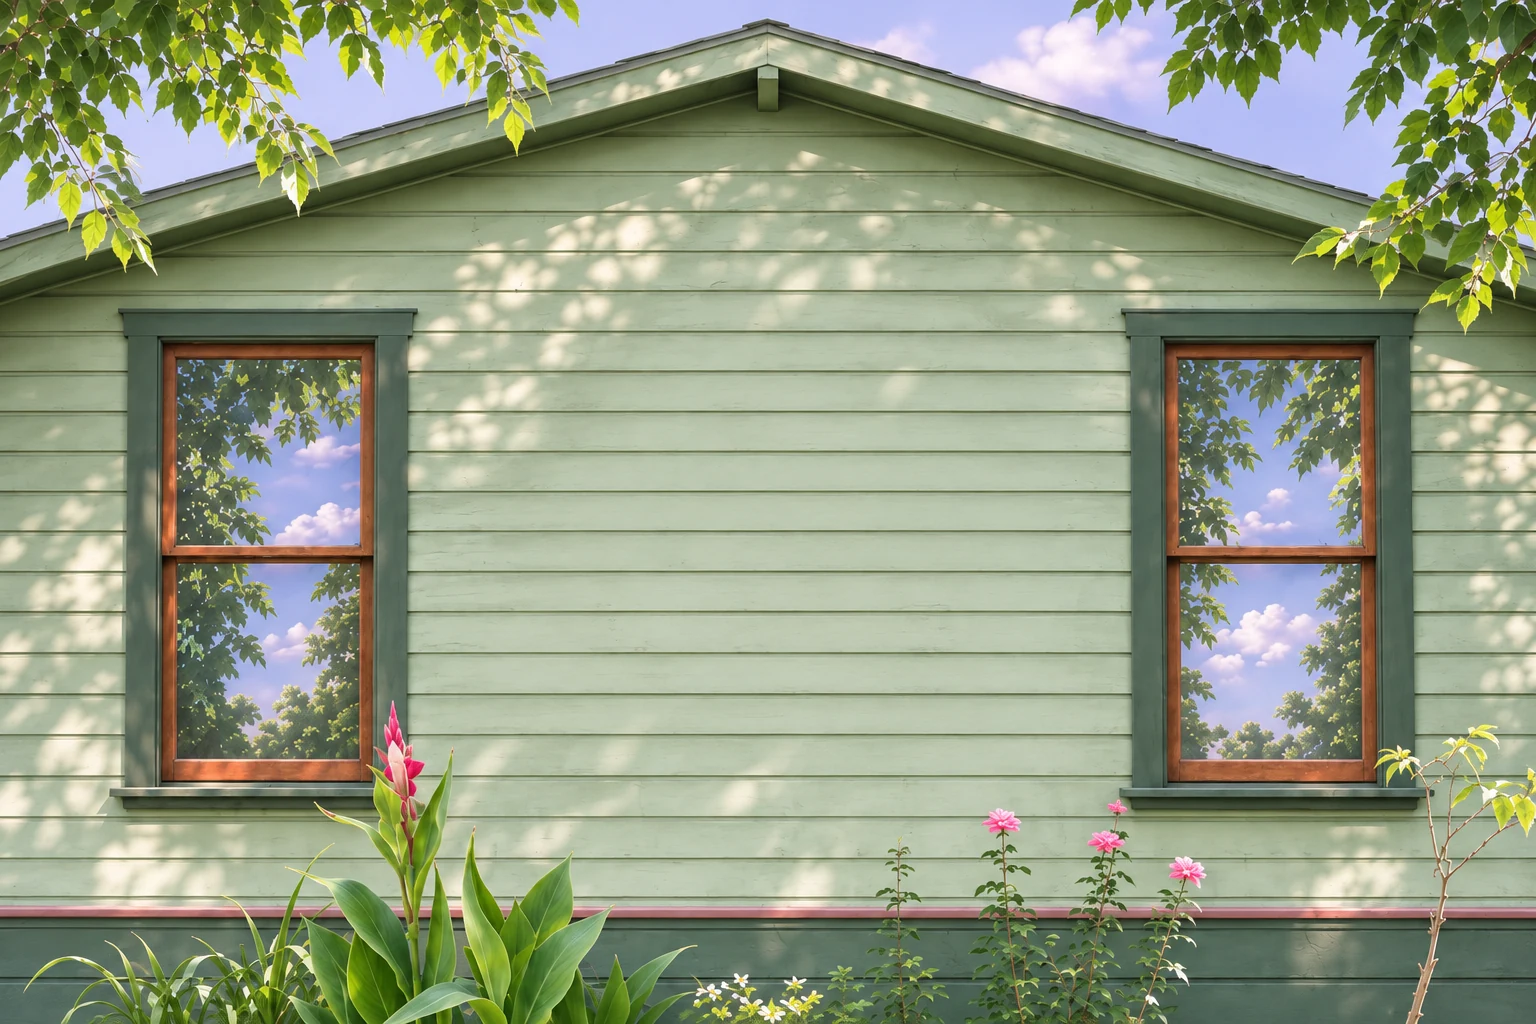
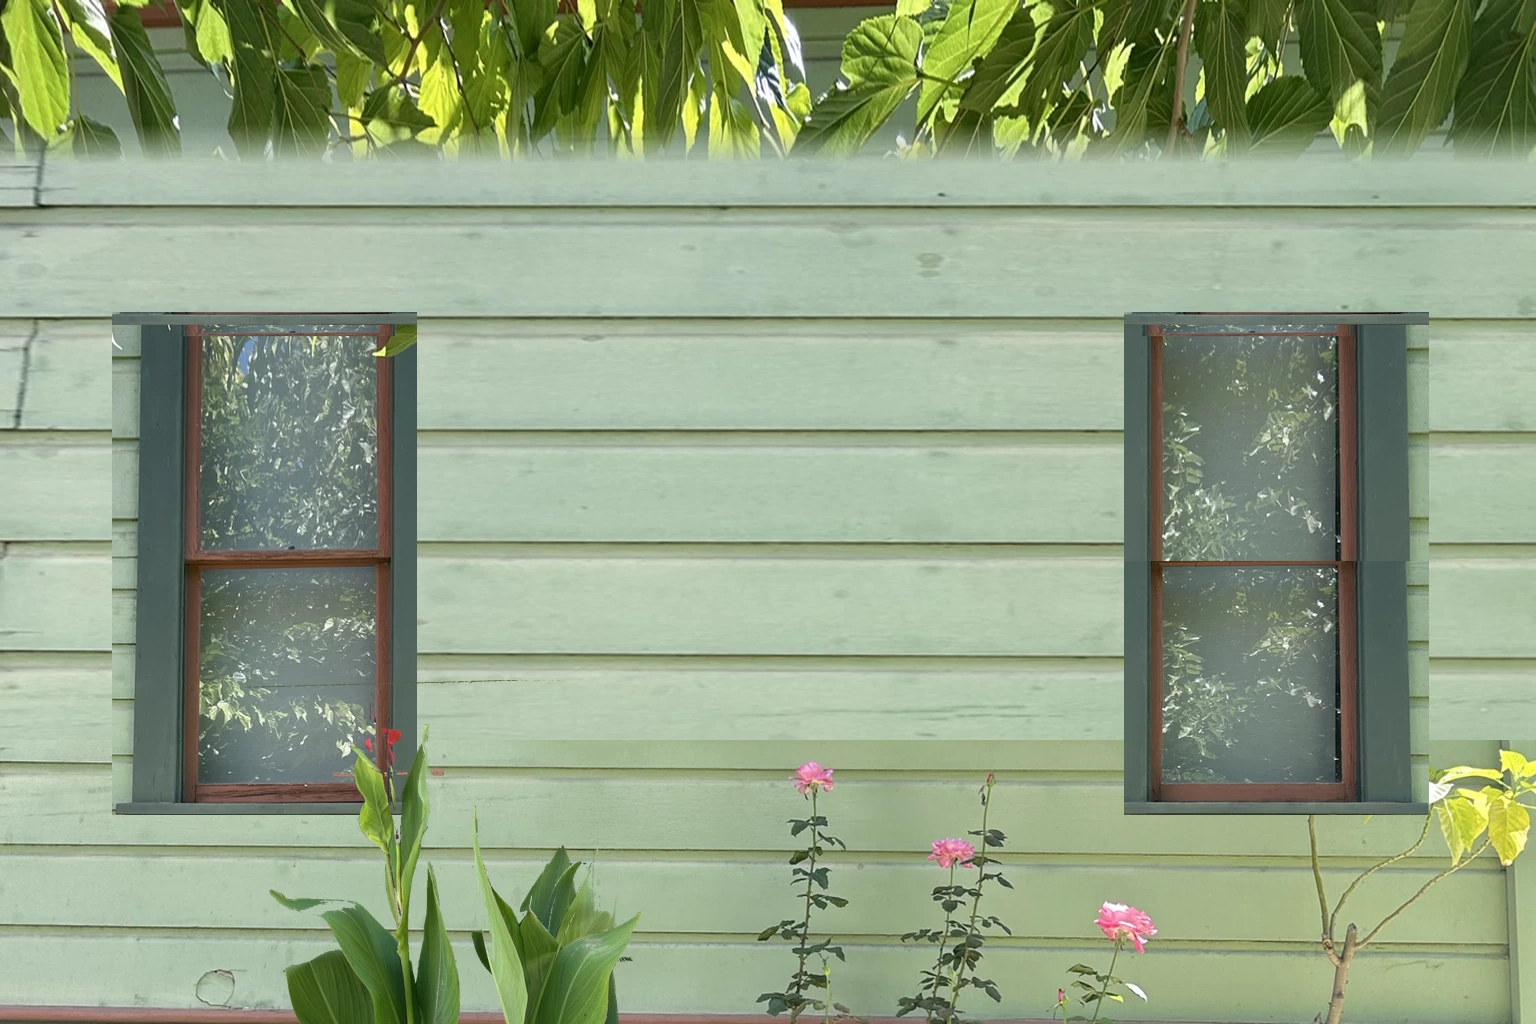
Replace generated house scenes with original-photograph compositions

diff --git a/docs/homepage-photography.md b/docs/homepage-photography.md
@@ -1,0 +1,27 @@
+# Homepage photographic composition
+
+Replaces the two generated house backgrounds with a photographic montage derived
+from the artist's original house photographs. The supplied set was confirmed
+complete before this work began. The closest flower and frontal window photographs
+provide the published pixels; wider photographs were reviewed for context.
+
+The source files used are `1-Photo-8.jpg` and `2-Photo-9.jpg` from the final uploaded
+reference group. Originals remain untouched in the private working files and are
+not copied wholesale into this public repository. Published WebP derivatives
+contain no original EXIF metadata.
+
+This is a composed photographic facade, not an unaltered documentary photograph
+of the house. Siding, sash panels, trim, reflected foliage, and planting are cropped,
+resized, and arranged to fit the existing desktop/mobile navigation geometry.
+Some photographic panel portions are reused. Natural window reflections replace
+the previous generated cloud scenery; no new sky or roof is invented. Plant
+cutouts and narrow edge feathering are conventional photo compositing. No image
+generation, generative fill, painted texture, saturation boost, or golden color
+grading is used. The actual siding wear, timber, plants, and photographic lighting
+come from the original images.
+
+Desktop: 1536 × 1024. Mobile: 1024 × 1536. Existing HTML, CSS, JavaScript, layout,
+approved Option B title, and full-window navigation hit areas are unchanged.
+Original artwork, exhibition records, and Spring files are unchanged.
+
+Browser/device rendering still needs review through the separate Sites preview.
